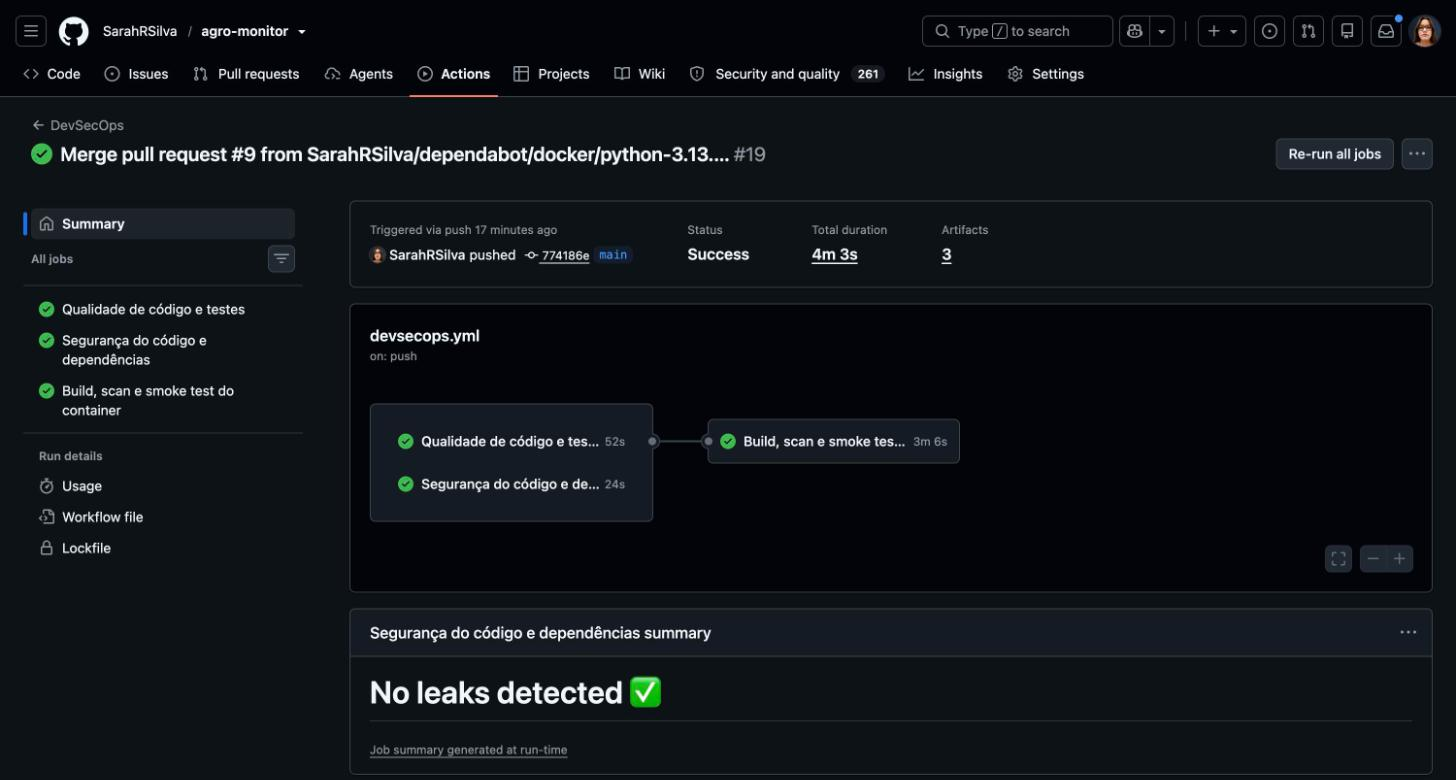
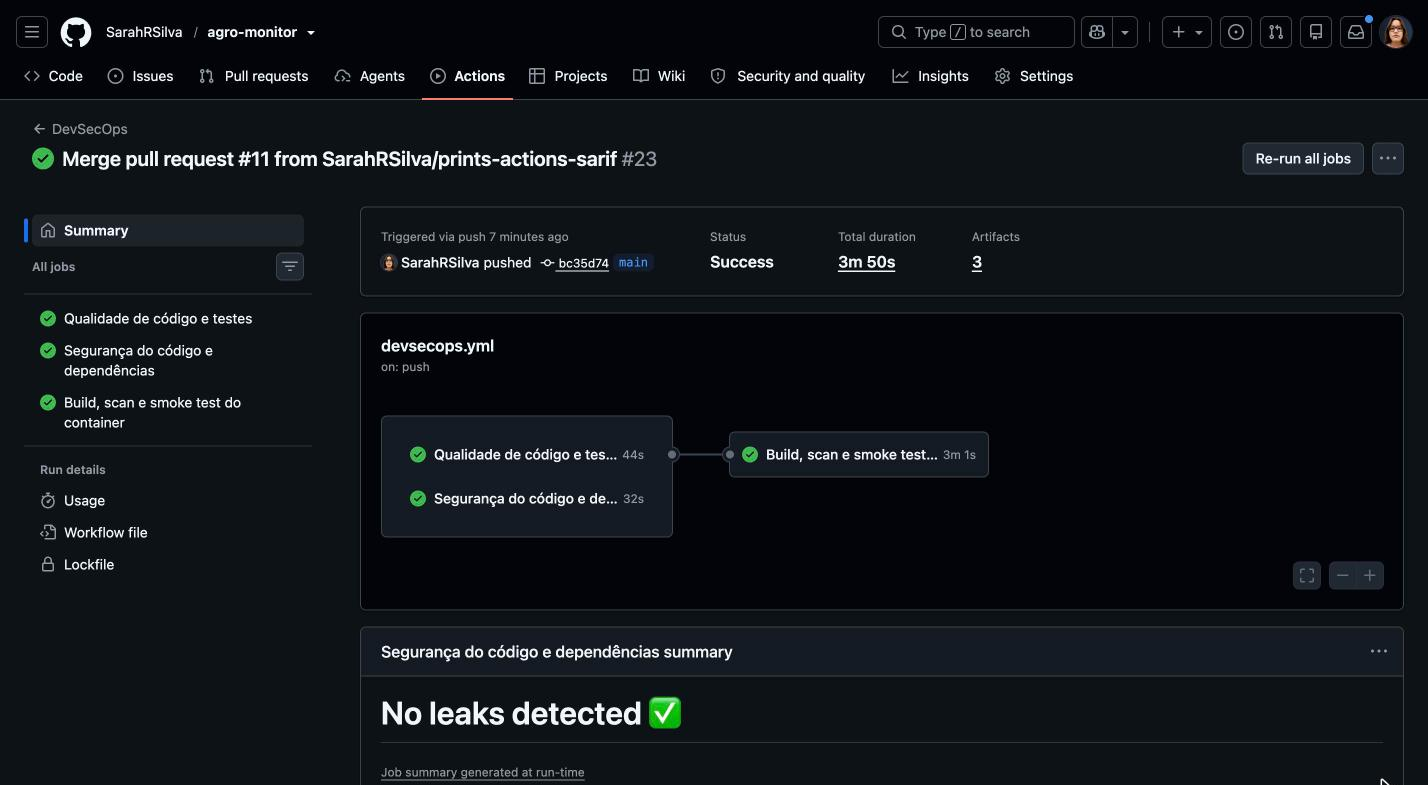
atualizar prints do GitHub Actions e adicionar print da aba Security sem alertas

diff --git a/README.md b/README.md
@@ -694,7 +694,7 @@ Feito (no repositório):
 Falta (precisa ser feito pela equipe):
 
 - [x] Prints das abas novas do dashboard: `docs/prints/10_monitoramento.png` e `docs/prints/11_processo.png`
-- [x] (Opcional) print do `docker compose ps` + healthcheck (`docs/prints/14_docker_compose_ps.png`) e da execução do workflow no GitHub Actions (`docs/prints/12_github_actions_pipeline.png`, `13_github_actions_build.png`)
+- [x] (Opcional) print do `docker compose ps` + healthcheck (`docs/prints/14_docker_compose_ps.png`) e da execução do workflow no GitHub Actions (`docs/prints/12_github_actions_pipeline.png`, `13_github_actions_build.png`) e da aba Security sem alertas abertos (`15_github_security_code_scanning.png`)
 - [ ] Gravar o **vídeo final** (5–8 min) — roteiro em `docs/fase7/06_pitch_e_roteiros.md` §6.4
 - [ ] Gravar o **vídeo pitch** (até 5 min) — roteiro em §6.3
 - [ ] Colar os dois links em `docs/link_video_fase7.txt`
